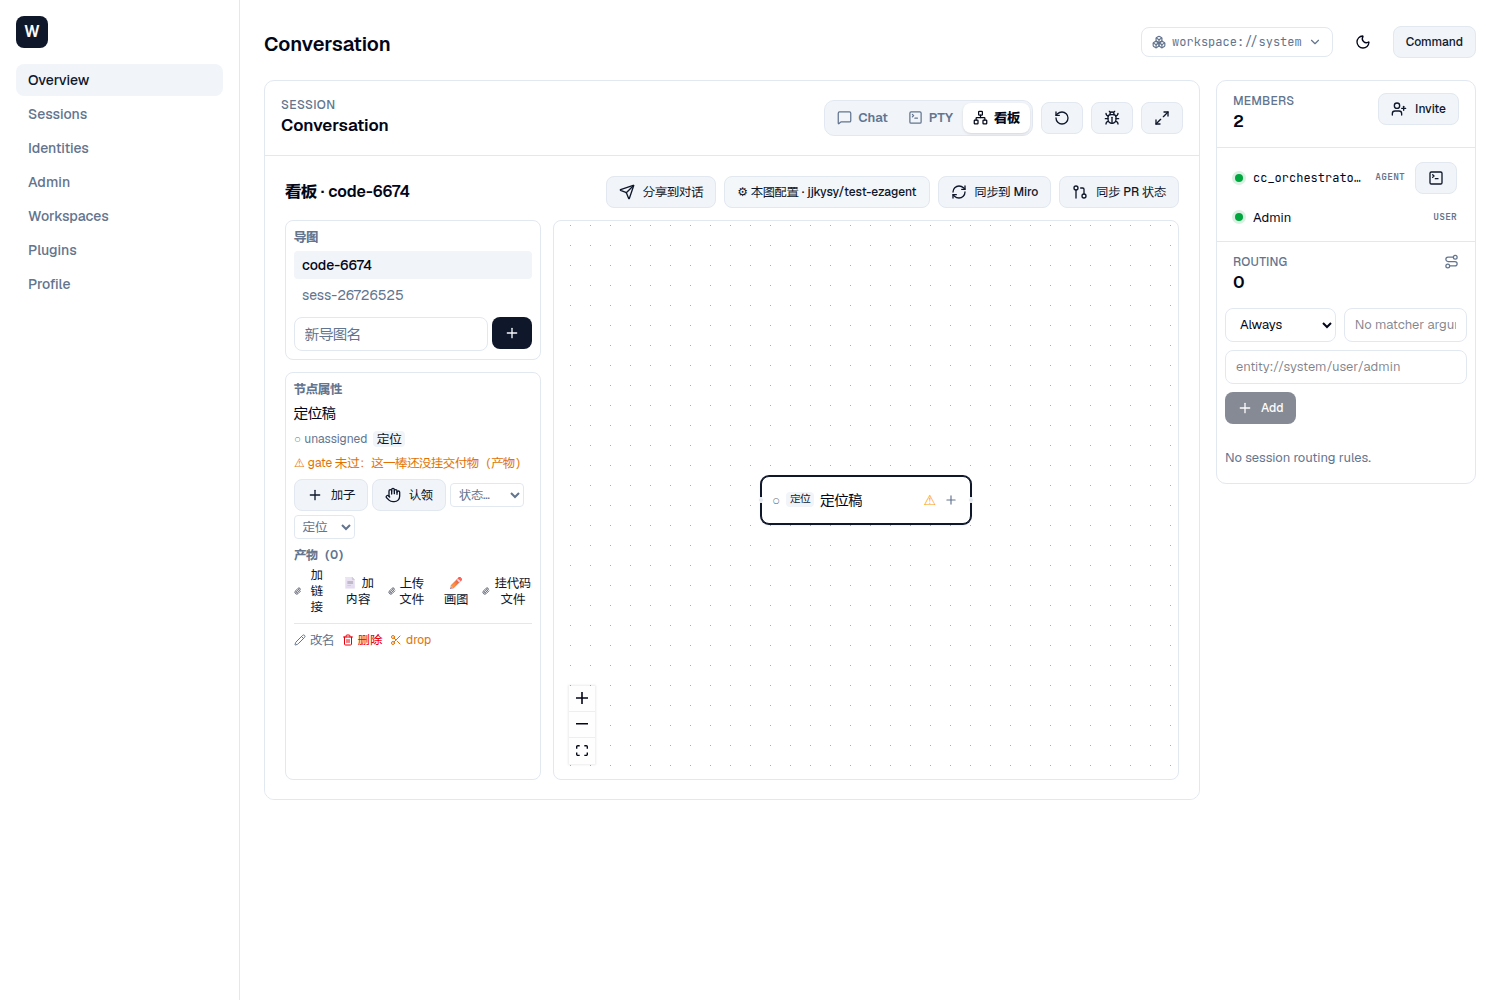
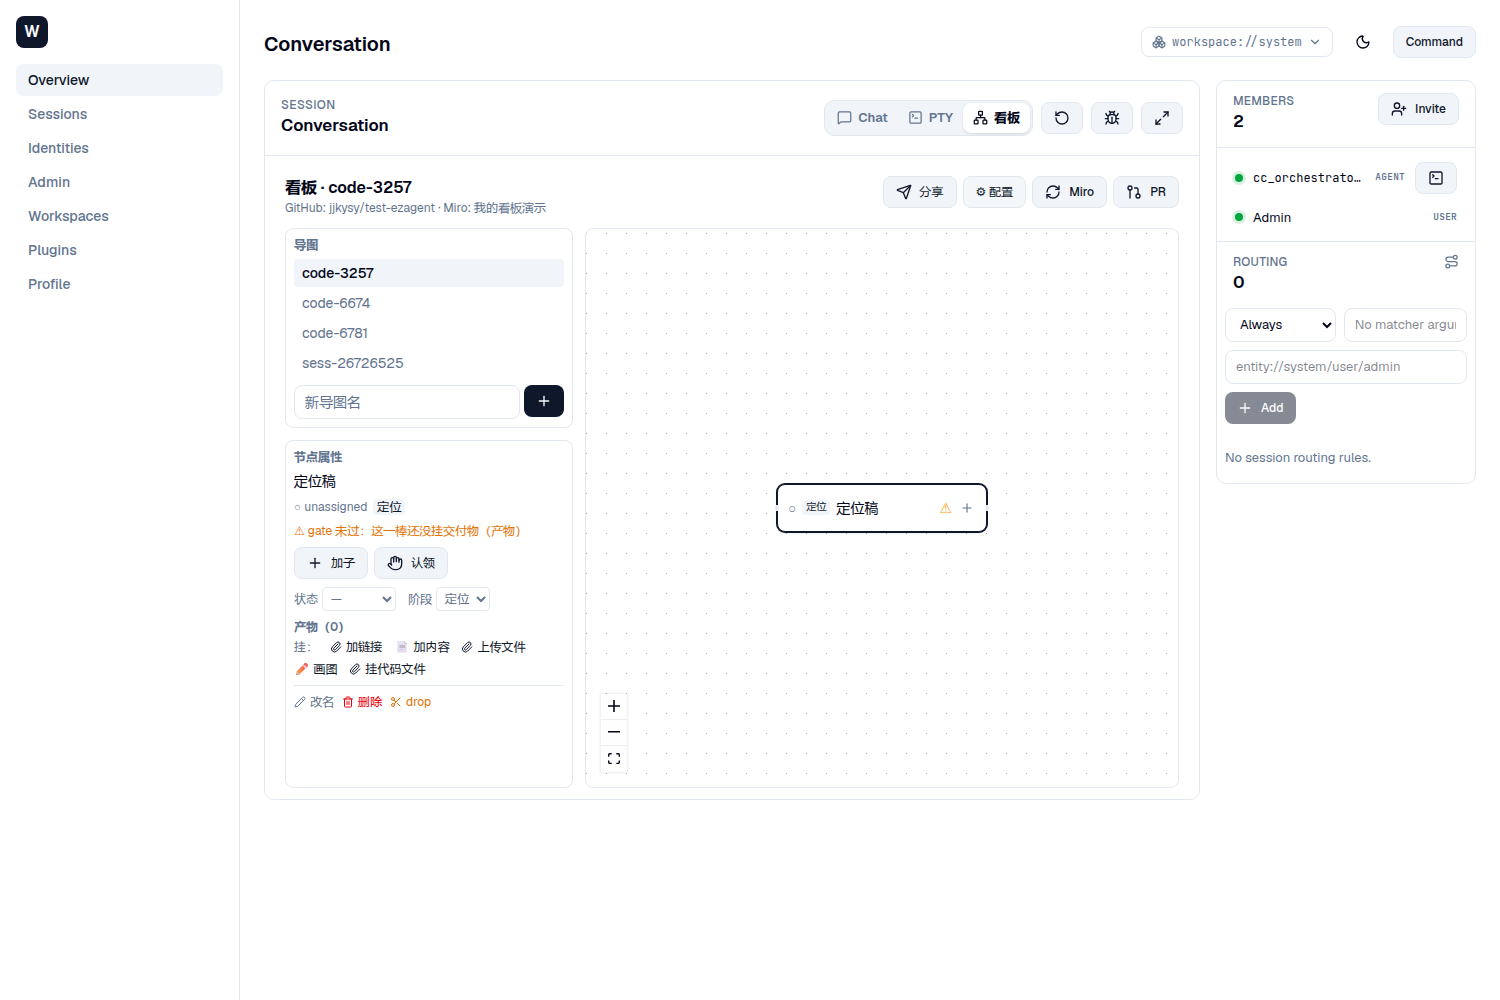
style(kanban): 整理 tab 布局(去拥挤) — header副标题/紧凑按钮 + 加宽侧栏 + 动作分组
- header: repo/miro 板名移到标题下副标题(不再挤进按钮); 按钮压缩成 分享/⚙配置/Miro/PR(图标+短标签+title)。
- 侧栏 w-64→w-72。
- 节点属性: 加子/认领 一行; '状态[]阶段[]' 带标签的下拉单独一行; 产物入口'挂：...'flex-wrap整齐换行。
- e2e 全过(截图 code-1/2/3): 本图配置副标题/挂代码文件blob链接/阶段名(anchor=目标用户)全验证。

Changed region(s): [[0.184, 0.155, 0.3987, 0.713], [0.3987, 0.186, 0.7973, 0.217], [0.4907, 0.465, 0.6747, 0.527]]

diff --git a/apps/ezagent_plugin_world/assets/src/components/Kanban.tsx b/apps/ezagent_plugin_world/assets/src/components/Kanban.tsx
@@ -154,19 +154,28 @@ function KanbanDetail({state, onAction, onShare, onShareArtifact, onUploadFile}:
 
   return (
     <div className="flex h-full flex-col gap-3 p-5">
-      <div className="flex items-center justify-between">
-        <h2 className="text-base font-semibold text-foreground">看板 · {uri.split("/").pop()}</h2>
-        <div className="flex items-center gap-2">
+      <div className="flex items-start justify-between gap-3">
+        <div className="min-w-0">
+          <h2 className="truncate text-base font-semibold text-foreground">看板 · {uri.split("/").pop()}</h2>
+          {(state.config?.github_repo || state.config?.miro_board) && (
+            <p className="truncate text-xs text-muted-foreground">
+              {state.config?.github_repo && <>GitHub: {state.config.github_repo}</>}
+              {state.config?.github_repo && state.config?.miro_board && " · "}
+              {state.config?.miro_board && <>Miro: {state.config.miro_board}</>}
+            </p>
+          )}
+        </div>
+        <div className="flex flex-shrink-0 items-center gap-1.5">
           {onShare && (
-            <Button type="button" size="sm" variant="secondary" onClick={onShare}>
-              <Send className="h-4 w-4" /> 分享到对话
+            <Button type="button" size="sm" variant="secondary" title="分享到对话" onClick={onShare}>
+              <Send className="h-4 w-4" /> 分享
             </Button>
           )}
           <Button
             type="button"
             size="sm"
             variant="secondary"
-            title="本图独立配置：对应的 GitHub 仓库 + Miro 板名（一图一仓库/一板）"
+            title="本图配置：对应的 GitHub 仓库 + Miro 板名（一图一仓库/一板）"
             onClick={() => {
               const repo = window.prompt("本图的 GitHub 仓库（owner/name，如 jjkysy/test-ezagent）", state.config?.github_repo || "")
               if (repo === null) return
@@ -175,13 +184,13 @@ function KanbanDetail({state, onAction, onShare, onShareArtifact, onUploadFile}:
               onAction("kanban.set_board_config", {kanban_uri: uri, github_repo: repo.trim(), miro_board: board.trim()})
             }}
           >
-            ⚙ 本图配置{state.config?.github_repo ? ` · ${state.config.github_repo}` : ""}
+            ⚙ 配置
           </Button>
-          <Button type="button" size="sm" variant="secondary" onClick={() => onAction("kanban.sync_miro", {kanban_uri: uri})}>
-            <RefreshCw className="h-4 w-4" /> 同步到 Miro
+          <Button type="button" size="sm" variant="secondary" title="同步到 Miro（建/复用本图对应的板）" onClick={() => onAction("kanban.sync_miro", {kanban_uri: uri})}>
+            <RefreshCw className="h-4 w-4" /> Miro
           </Button>
-          <Button type="button" size="sm" variant="secondary" title="轮询本图登记过的 PR：merged/closed 的自动推进到 done" onClick={() => onAction("kanban.sync_prs", {kanban_uri: uri})}>
-            <GitPullRequest className="h-4 w-4" /> 同步 PR 状态
+          <Button type="button" size="sm" variant="secondary" title="同步 PR 状态：轮询登记过的 PR，merged/closed 自动推进到 done" onClick={() => onAction("kanban.sync_prs", {kanban_uri: uri})}>
+            <GitPullRequest className="h-4 w-4" /> PR
           </Button>
         </div>
       </div>
@@ -204,7 +213,7 @@ function KanbanDetail({state, onAction, onShare, onShareArtifact, onUploadFile}:
           左栏在这固定高内 overflow-y-auto 自己滚。 */}
       <div className="flex h-[560px] gap-3 overflow-hidden">
         {/* 侧边栏：导图列表 + 新建 + 选中节点属性（在固定高内独立滚动，不带动画布） */}
-        <aside className="flex w-64 flex-shrink-0 flex-col gap-3 overflow-hidden">
+        <aside className="flex w-72 flex-shrink-0 flex-col gap-3 overflow-hidden">
           <div className="flex-shrink-0 rounded-md border border-border p-2">
             <div className="mb-1.5 text-xs font-semibold text-muted-foreground">导图</div>
             <ul className="flex max-h-32 flex-col gap-0.5 overflow-y-auto">
@@ -305,7 +314,7 @@ function NodePanel({node, args, stages, statuses, onAction, onShareArtifact, onU
           </ul>
         </div>
       )}
-      <div className="flex flex-wrap items-center gap-1">
+      <div className="flex items-center gap-1.5">
         <Button type="button" size="sm" variant="secondary" title="给本节点加一个子节点（接力链下一棒）" onClick={() => {
           const t = window.prompt("子节点标题（接力链下一棒，如 北极星指标）")
           if (t && t.trim()) onAction("kanban.add_node", {kanban_uri: args.kanban_uri, parent_id: args.id, title: t.trim()})
@@ -315,15 +324,23 @@ function NodePanel({node, args, stages, statuses, onAction, onShareArtifact, onU
         <Button type="button" size="sm" variant="secondary" onClick={() => onAction("kanban.claim_node", args)}>
           <Hand className="h-3.5 w-3.5" /> 认领
         </Button>
-        {/* 回显当前值(issue1: 改完看得到、不再绑空串显得"没存") */}
-        <select className={selectCls} value={statuses.includes(node.status || "") ? node.status || "" : ""} onChange={(e) => e.target.value && onAction("kanban.set_status", {...args, status: e.target.value})}>
-          <option value="">状态…</option>
-          {statuses.map((s) => (<option key={s} value={s}>{s}</option>))}
-        </select>
-        <select className={selectCls} value={node.stage || ""} onChange={(e) => e.target.value && onAction("kanban.set_stage", {...args, stage: e.target.value})}>
-          <option value="">阶段…</option>
-          {stages.map((s) => (<option key={s} value={s}>{STAGE_LABEL[s] || s}</option>))}
-        </select>
+      </div>
+      <div className="flex items-center gap-3 text-xs text-muted-foreground">
+        <label className="flex items-center gap-1">
+          状态
+          {/* 回显当前值(issue1: 改完看得到) */}
+          <select className={selectCls} value={statuses.includes(node.status || "") ? node.status || "" : ""} onChange={(e) => e.target.value && onAction("kanban.set_status", {...args, status: e.target.value})}>
+            <option value="">—</option>
+            {statuses.map((s) => (<option key={s} value={s}>{s}</option>))}
+          </select>
+        </label>
+        <label className="flex items-center gap-1">
+          阶段
+          <select className={selectCls} value={node.stage || ""} onChange={(e) => e.target.value && onAction("kanban.set_stage", {...args, stage: e.target.value})}>
+            <option value="">—</option>
+            {stages.map((s) => (<option key={s} value={s}>{STAGE_LABEL[s] || s}</option>))}
+          </select>
+        </label>
       </div>
       <div>
         <div className="text-xs font-semibold text-muted-foreground">产物（{node.artifacts?.length ?? 0}）</div>
@@ -393,7 +410,8 @@ function NodePanel({node, args, stages, statuses, onAction, onShareArtifact, onU
             </div>
           </div>
         ) : (
-          <div className="mt-1 flex gap-3 text-xs">
+          <div className="mt-1 flex flex-wrap items-center gap-x-3 gap-y-1.5 text-xs">
+            <span className="text-muted-foreground">挂：</span>
             <button
               type="button"
               className="inline-flex items-center gap-1 text-primary hover:underline"
